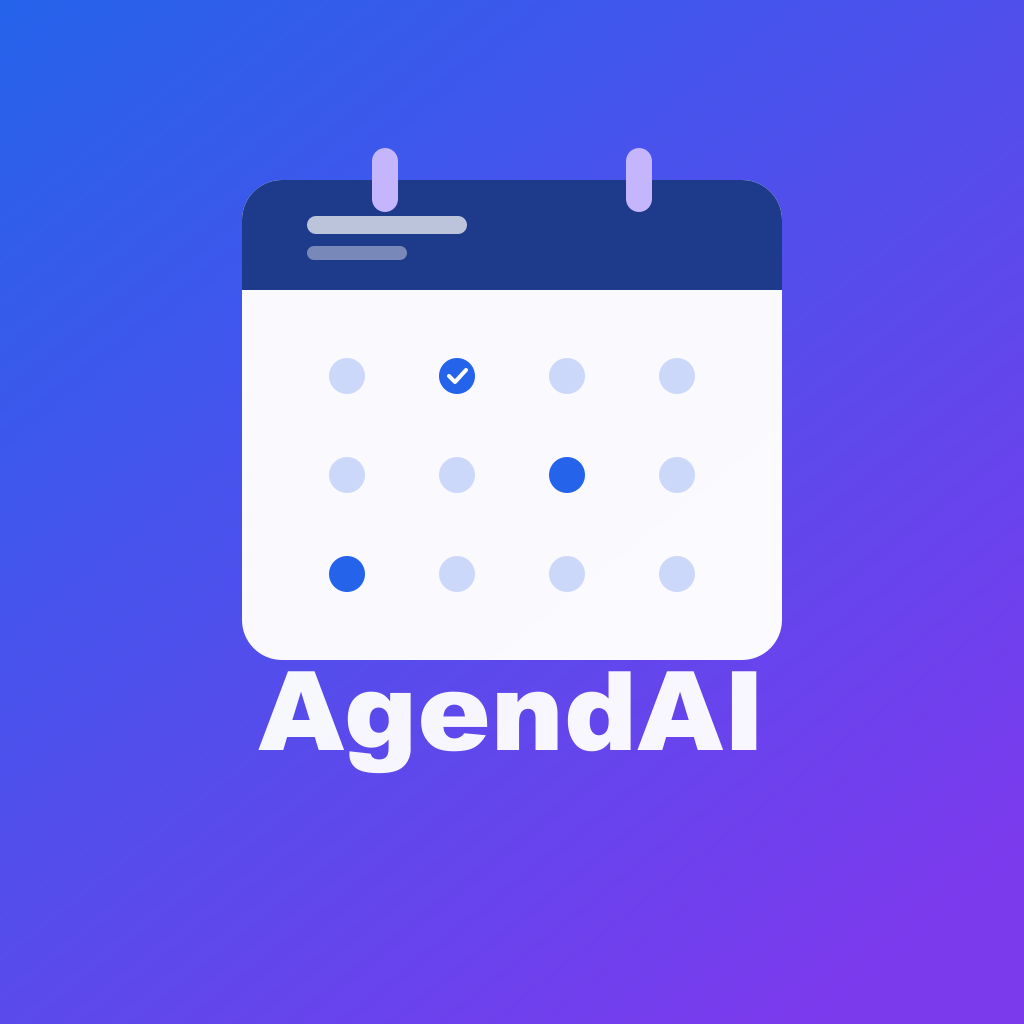
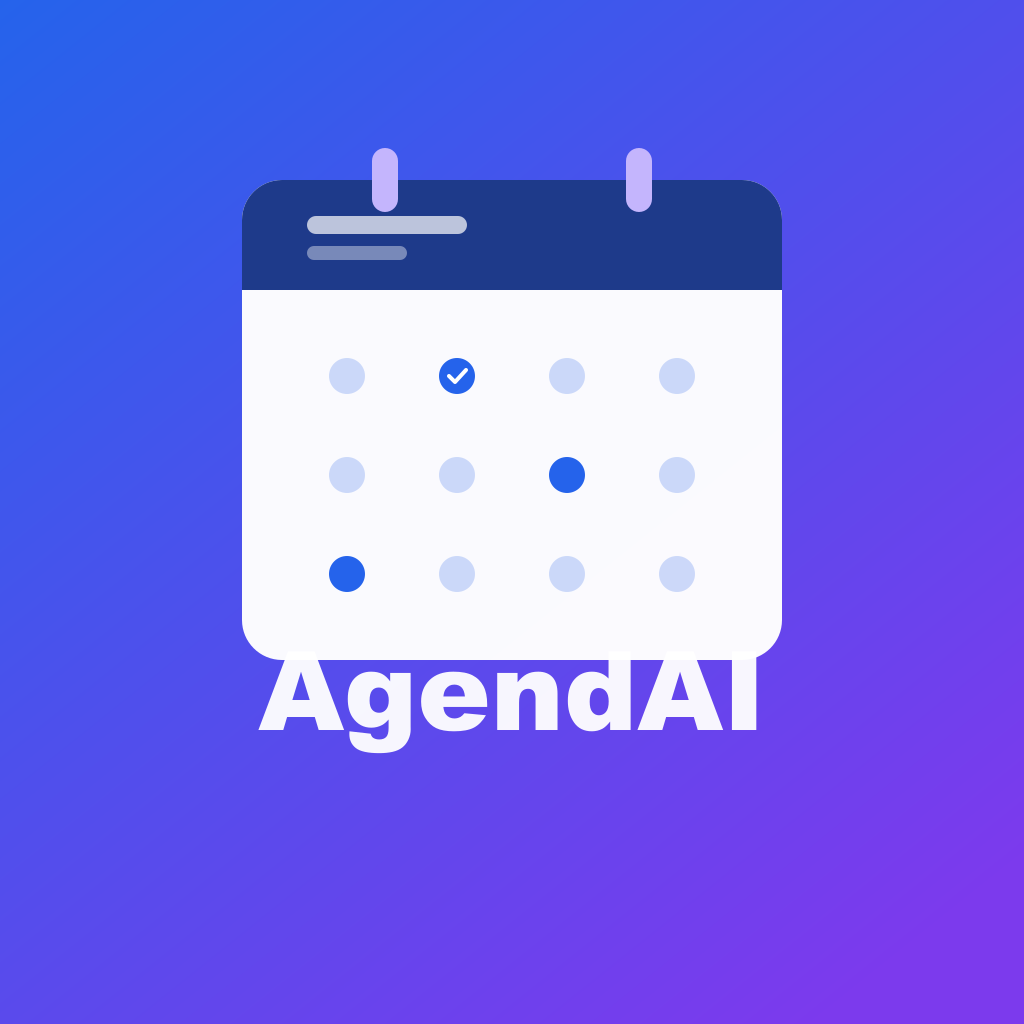
feat(mobile): ajuste do ícone adaptativo - calendário maior
- adaptive-icon.png igual ao icon.png (calendário grande + AgendAI)
- Corrige ícone que aparecia cortado no Android

Changed region(s): [[0.25, 0.625, 0.75, 0.7812], [0.7188, 0.625, 0.75, 0.6562]]

diff --git a/generate-icons.js b/generate-icons.js
@@ -19,26 +19,33 @@ function tag(name, attrs, children) {
   return "<" + name + a + ">" + (children || "") + "</" + name + ">";
 }
 
-function buildIconSVG(size, radius) {
+function buildIconSVG(size, radius, isAdaptive) {
   var s = size, r = radius, sc = s / 1024;
 
+  // Para adaptive icon, escalar tudo para caber na safe zone (66% central)
+  // O Android corta ~17% de cada lado com máscara circular
+  var asc = isAdaptive ? 0.75 : 1.0; // fator de escala para adaptive
+  var offsetY = 0;
+
   // Calendar dimensions
-  var calW = Math.round(540 * sc), calH = Math.round(480 * sc);
-  var calX = Math.round((s - calW) / 2), calY = Math.round(180 * sc);
-  var calR = Math.round(40 * sc), hdrH = Math.round(110 * sc);
+  var calW = Math.round(540 * sc * asc), calH = Math.round(480 * sc * asc);
+  // No adaptive, centralizar só o calendário (sem texto); no normal, manter layout com texto
+  var calX = Math.round((s - calW) / 2);
+  var calY = isAdaptive ? Math.round((s - calH) / 2 + 30 * sc) : Math.round(180 * sc);
+  var calR = Math.round(40 * sc * asc), hdrH = Math.round(110 * sc * asc);
 
   // Pegs
-  var pegW = Math.round(26 * sc), pegH = Math.round(64 * sc), pegR = Math.round(13 * sc);
-  var peg1X = Math.round(calX + 130 * sc), peg2X = Math.round(calX + calW - 130 * sc - pegW);
+  var pegW = Math.round(26 * sc * asc), pegH = Math.round(64 * sc * asc), pegR = Math.round(13 * sc * asc);
+  var peg1X = Math.round(calX + 130 * sc * asc), peg2X = Math.round(calX + calW - 130 * sc * asc - pegW);
   var pegY = Math.round(calY - pegH / 2);
 
   // Grid of dots - 4 cols x 3 rows (como dias do mes)
   var bodyTop = calY + hdrH, bodyH = calH - hdrH;
-  var gridPadX = Math.round(50 * sc), gridPadY = Math.round(36 * sc);
+  var gridPadX = Math.round(50 * sc * asc), gridPadY = Math.round(36 * sc * asc);
   var cols = 4, rows = 3;
   var cellW = (calW - gridPadX * 2) / cols;
   var cellH = (bodyH - gridPadY * 2) / rows;
-  var dotR = Math.round(18 * sc);
+  var dotR = Math.round(18 * sc * asc);
 
   var dots = "";
   for (var row = 0; row < rows; row++) {
@@ -58,21 +65,21 @@ function buildIconSVG(size, radius) {
 
   // Header month text lines
   var hl1 = tag("rect", {
-    x: Math.round(calX + 65 * sc), y: Math.round(calY + 36 * sc),
-    width: Math.round(160 * sc), height: Math.round(18 * sc),
-    rx: Math.round(9 * sc), fill: "rgba(255,255,255,0.7)"
+    x: Math.round(calX + 65 * sc * asc), y: Math.round(calY + 36 * sc * asc),
+    width: Math.round(160 * sc * asc), height: Math.round(18 * sc * asc),
+    rx: Math.round(9 * sc * asc), fill: "rgba(255,255,255,0.7)"
   });
   var hl2 = tag("rect", {
-    x: Math.round(calX + 65 * sc), y: Math.round(calY + 66 * sc),
-    width: Math.round(100 * sc), height: Math.round(14 * sc),
-    rx: Math.round(7 * sc), fill: "rgba(255,255,255,0.4)"
+    x: Math.round(calX + 65 * sc * asc), y: Math.round(calY + 66 * sc * asc),
+    width: Math.round(100 * sc * asc), height: Math.round(14 * sc * asc),
+    rx: Math.round(7 * sc * asc), fill: "rgba(255,255,255,0.4)"
   });
 
   // AI badge removed
 
   // App name text
-  var textY = Math.round(calY + calH + 90 * sc);
-  var textSz = Math.round(110 * sc);
+  var textY = Math.round(calY + calH + 70 * sc * asc);
+  var textSz = Math.round(110 * sc * asc);
   var nameText = tag("text", {
     x: Math.round(s / 2), y: textY, "text-anchor": "middle",
     "font-family": "Arial Black,Arial,sans-serif", "font-weight": "900",
@@ -114,10 +121,10 @@ function buildIconSVG(size, radius) {
   var checkCx = Math.round(calX + gridPadX + cellW * 1 + cellW / 2);
   var checkCy = Math.round(bodyTop + gridPadY + cellH * 0 + cellH / 2);
   var checkMark = tag("path", {
-    d: "M" + Math.round(checkCx - 8 * sc) + "," + checkCy +
-      " L" + Math.round(checkCx - 2 * sc) + "," + Math.round(checkCy + 6 * sc) +
-      " L" + Math.round(checkCx + 9 * sc) + "," + Math.round(checkCy - 6 * sc),
-    stroke: "white", "stroke-width": Math.round(4 * sc), fill: "none",
+    d: "M" + Math.round(checkCx - 8 * sc * asc) + "," + checkCy +
+      " L" + Math.round(checkCx - 2 * sc * asc) + "," + Math.round(checkCy + 6 * sc * asc) +
+      " L" + Math.round(checkCx + 9 * sc * asc) + "," + Math.round(checkCy - 6 * sc * asc),
+    stroke: "white", "stroke-width": Math.round(4 * sc * asc), fill: "none",
     "stroke-linecap": "round", "stroke-linejoin": "round"
   });
 
@@ -189,9 +196,9 @@ function buildFaviconSVG(size) {
 
 async function generate() {
   var tasks = [
-    { name: "icon.png", svg: buildIconSVG(1024, 180), width: 1024, height: 1024 },
-    { name: "adaptive-icon.png", svg: buildIconSVG(1024, 0), width: 1024, height: 1024 },
-    { name: "splash-icon.png", svg: buildIconSVG(1024, 180), width: 1024, height: 1024 },
+    { name: "icon.png", svg: buildIconSVG(1024, 180, false), width: 1024, height: 1024 },
+    { name: "adaptive-icon.png", svg: buildIconSVG(1024, 0, false), width: 1024, height: 1024 },
+    { name: "splash-icon.png", svg: buildIconSVG(1024, 180, false), width: 1024, height: 1024 },
     { name: "favicon.png", svg: buildFaviconSVG(64), width: 64, height: 64 }
   ];
   for (var i = 0; i < tasks.length; i++) {
